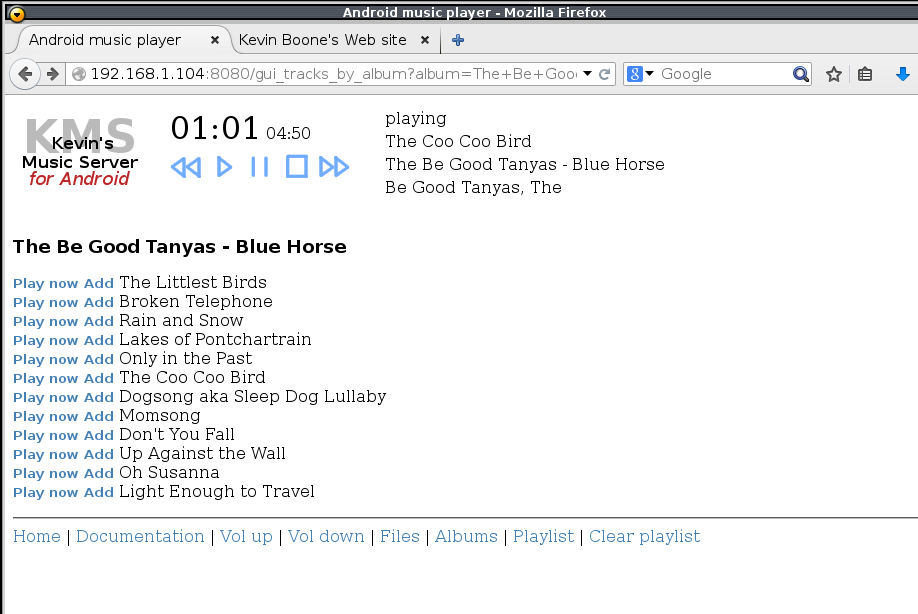
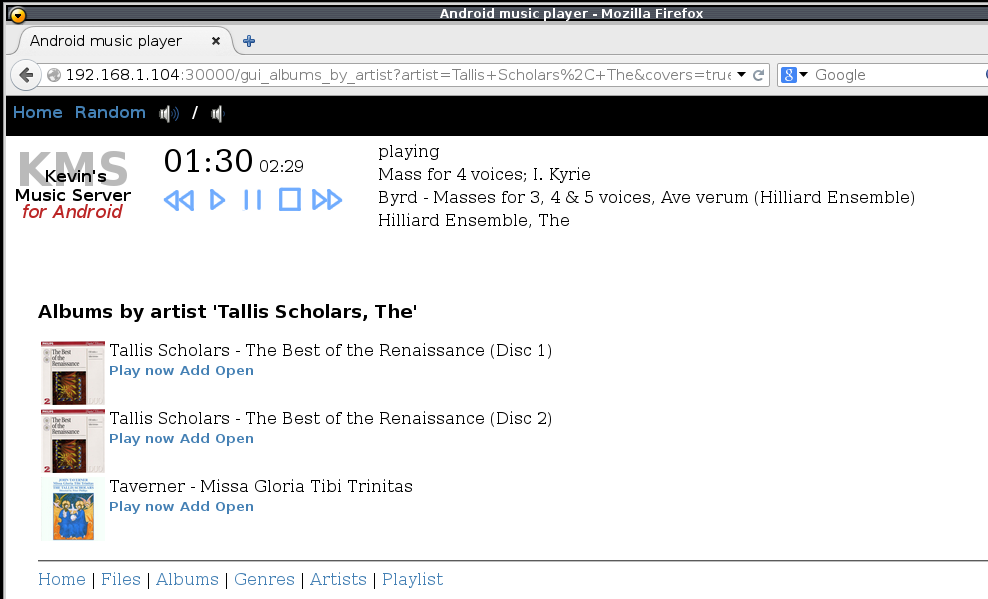
Minor bug fixes

diff --git a/README_androidmusicserver.html b/README_androidmusicserver.html
@@ -13,7 +13,8 @@ Version 0.0.2.
 <img src="androidmusicserverscreenshot.png" alt="screenshot" width="400" align="left" style="margin-right:30px"/>
 
 Kevin's Music Server for Android provides a web browser interface to
-control playback of audio stored on relatively modern (4.x) Android devices. 
+control playback of audio files stored on relatively modern (4.x) 
+Android devices. 
 This allows the Android device
 to be used as a music server, in multi-room audio applications, among
 other things. It is a cut-down version of <a href="kmediad_server">kmediad</a>,
@@ -36,7 +37,8 @@ won't ever be appearing on
 the Android Market, because I can't afford to pay Google to host stuff that I'm
 giving away for free. Alternatively, if you're worried that this app might
 transmit all your secret passwords to villains, you're welcome to inspect
-and build from source (source code is also in the Downloads section).
+and build the application yourself (source code is also in the 
+Downloads section), or from <a href="https://github.com/kevinboone/androidmusicserver">github</a>.
 
 <h2>Operation</h2>
 
@@ -48,14 +50,18 @@ see an error message. There is also a "Stop" button which does what it says.
 <p/>
 All real operation of the app is from a Web browser. I hope that the
 browser interface is relatively self-explanatory -- just select an
-album from the list and click "Play now", or "Add" to append the
+album from one of the various lists and click "Play now", or "Add" 
+to append the
 tracks to the playlist. Alternatively, click the "Files" link at
 the bottom of the page and navigate
-the filesystem to find some audio files.
+the filesystem to find some audio files. Or just click "Random" to
+play a randomly-selected album.
 <p/>
 You can operate Android Music Server using a web browser on the device
 itself (if the browser has adequate JavaScript support); but the app
-is really intended to be operaed from a browser on a different machine. 
+is really intended to be operated from a browser on a different machine.
+It is intended for remote control of music playback; there are many 
+good media players for on-device operation.
 <p/>
 Android Music Server responds to remote control events -- from
 a bluetooth headset with control buttons, for example. In particular,
@@ -117,8 +123,9 @@ played, then playback will resume at the next playlist item when playback
 of the selected track finishes, if there is anything left to play in 
 the playlist.
 <p/>
-You can control the volume of playback using the "Vol up" and "Vol down"
-links at the bottom of the page. If you're using a headset, that might
+You can control the volume of playback by clicking on the loudspeaker
+buttons in the menu bar at the top of each page. 
+If you're using a headset, that might
 have its own volume control and, if it does, it probably sets the
 volume on the headset itself, not on the device. So, in that case, 
 to get full volume you probably need to turn up the volume both on
@@ -164,13 +171,14 @@ it in such cases.
 Android Music Server relies for its tag (e.g., album) 
 support entirely on the Android
 media scanner. If this isn't working (which is relatively common), 
-results will be variable. The app queries the media scanner only 
+results will be variable. The app queries the media scanner
 when it starts, so media added after starting may not be visible (even
-if the scanner is working). Please see the section 'Android media 
+if the scanner is working), unless you click the "Rescan media catalogue"
+link in the home page. Please see the section 'Android media 
 catalogue issues' for more information. 
 <p/>
-One particular oddity of the Android media scanner, is that it will sometimes 
-present video files as 'Music,' presmumably because they have sountracks.
+One particular oddity of the Android media scanner is that it will sometimes 
+present video files as 'Music,' presmumably because they have soundtracks.
 This app doesn't play video, so these entries in the album list are an
 irritation.
 <p/>
@@ -236,7 +244,7 @@ subject to a number of limitations.
 <li>
 Baked-in cover-art images can be quite large -- perhaps even photo-sized.
 Returning all the images on a page containing, say, a list of two hundred
-albums is a challenge for an Android device. Is the browser is also on a
+albums is a challenge for an Android device. If the browser is also on a
 mobile device, then the challenge is compounded. The music server therefore
 attempts to avoid sending images if it can avoid doing so. It sets
 an <code>Expires</code> header one hour in the future for all images, 
@@ -260,7 +268,7 @@ any better information. What this means is that if you restart the app
 whilst the browser still has images in its cache, the browser will get
 confused: because the image has a last-modified date in the future, but
 in the browser's cache it has not yet expired.
-Clearling the browser cache usually fixes this
+Clearing the browser cache usually fixes this
 problem. 
 </li>
 </ul>
@@ -271,8 +279,10 @@ Android Music Server provides a list of genres, to restrict the listing of
 albums to specific genres. Needless to say, for this to work the audio
 files must have valid genre tags.
 <p/>
-Querying the Android media catalogue for genre information is painfully
-slow. I believe that there is some problem with the internal implementation,
+Querying the Android media catalogue for genre information is 
+<i>excruciatingly</i>
+slow. I believe that there is some problem with the internal search
+ implementation,
 which seems to require the whole genre catalogue to be expanded into tracks
 and then a query run against each track. Whatever the reason, with large
 numbers of tracks (more than a few hundred) some short-cuts have to be
@@ -313,7 +323,7 @@ rescan every time a file is added or deleted, but many files will be of
 no interest to the application (documents, pictures), and rescanning
 like this could be overzealous. Instead, there is a link on the 
 home page 'Rescan the media catalog.' This will cause the music server
-to build its own lists of albums, artists, etc., from Android's catalogue.
+to rebuild its own lists of albums, artists, etc., from Android's catalogue.
 Of course, you could just restart the app.
 <p/>
 The second problem is that the media catalogue can sometimes get 

diff --git a/src/net/kevinboone/androidmediaserver/WebServer.java b/src/net/kevinboone/androidmediaserver/WebServer.java
@@ -503,7 +503,6 @@ public WebServer (Context context)
     sb.append ("<p/>");
     sb.append ("<hr/>");
     sb.append ("<a href=\"/\">Home</a> | ");
-    sb.append ("<a href=\"http://kevinboone.net/README_androidmusicserver.html\">Documentation</a> | ");
     sb.append ("<a href=\"/gui_files\">Files</a> | ");
     sb.append ("<a href=\"/gui_albums?" + makeGenParams (parameters) 
        + "\">Albums</a> | ");
@@ -652,6 +651,10 @@ public WebServer (Context context)
       else if ("clear_playlist".equalsIgnoreCase (cmd))
         {
         return clearPlaylist();
+        }
+      else if ("random_album".equalsIgnoreCase (cmd))
+        {
+        return playRandomAlbum();
         }
       else if ("prev".equalsIgnoreCase (cmd))
         {
@@ -1029,6 +1032,7 @@ public WebServer (Context context)
 
     sb.append 
      ("<span class=\"pagesubtitle\">Playlist</span><br/>");
+    sb.append ("&nbsp;&nbsp;<a href=\"javascript:random_album()\">Play a randomly-selected album</a><br/>");
     sb.append ("&nbsp;&nbsp;<a href=\"/gui_playlist\">View the current playlist</a><br/>");
     sb.append ("&nbsp;&nbsp;<a href=\"javascript:clear_playlist()\">Clear the playlist</a>");
     sb.append ("<p/>");
@@ -1267,6 +1271,30 @@ public WebServer (Context context)
     return new NanoHTTPD.Response (Response.Status.OK, "text/plain", 
         makeJSONStatusResponse 
          (0));
+    }
+
+  /** Play a random album. */ 
+  NanoHTTPD.Response playRandomAlbum()
+    {
+    Set<String> albums = audioDatabase.getAlbums();
+    int size = albums.size();
+    String album = "";
+    int item = new Random().nextInt(size); 
+    int i = 0;
+    for (String cand: albums)
+      {
+      i++;
+      if (i == item)
+        {
+        album = cand;
+        break;
+        }
+      }
+
+    playAlbumNow (album);
+    return new NanoHTTPD.Response (Response.Status.OK, "text/plain", 
+        makeJSONStatusResponse 
+         (0, "Playing album '" + album + "'"));
     }
 
 
